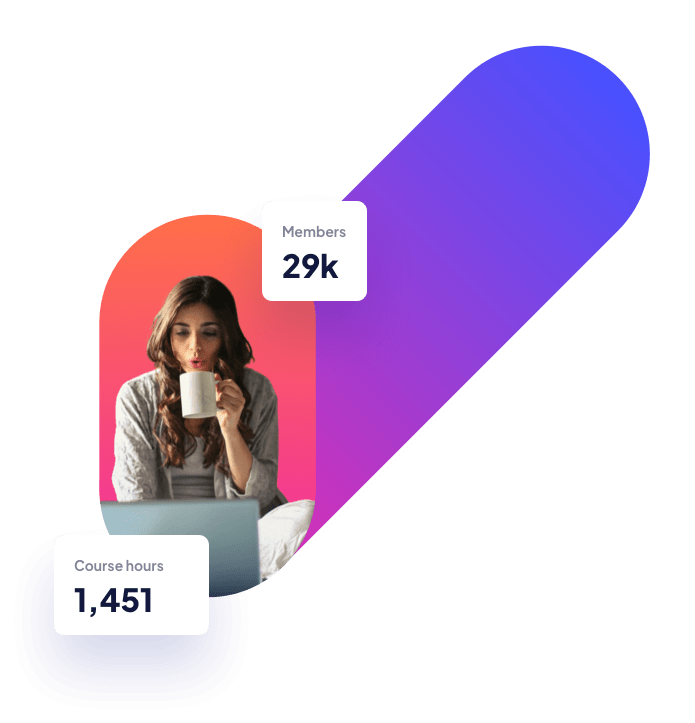
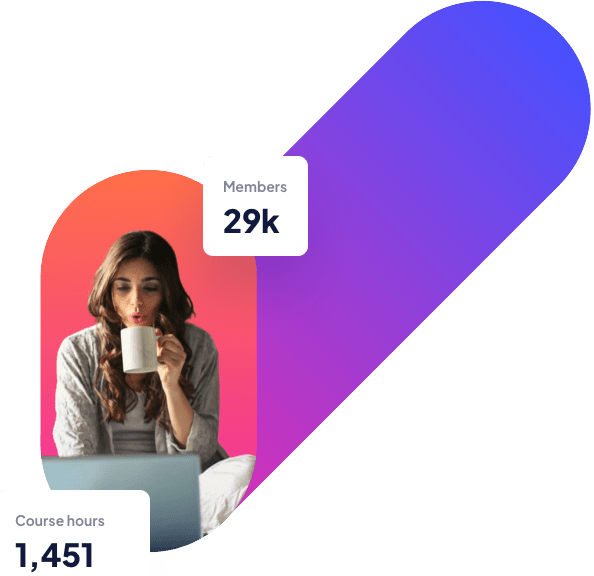
change img to picture tag

Changed region(s): [[0.0303, 0.0, 1.0, 1.0]]

diff --git a/index.html b/index.html
@@ -15,18 +15,25 @@
 </head>
 
 <body>
-  <header class="flex">
+  <header class="flex-column">
     <nav class="flex center-align">
       <img src="starter-code/assets/logo-dark.svg" alt="logo">
       <a href="" class="btn-started">Get Started</a>
     </nav>
     <section class="flex">
-      <h1>Maximize skill, minimize budget</h1>
-      <p> Our modern courses across a range of in-demand skills will give you the
-        knowledge you need to live the life you want.</p>
-      <a href="" class="btn-started btn-pink">Get Started</a>
+      <article class="flex">
+        <h1>Maximize skill, minimize budget</h1>
+        <p> Our modern courses across a range of in-demand skills will give you the
+          knowledge you need to live the life you want.</p>
+        <a href="" class="btn-started btn-pink">Get Started</a>
+      </article>
+      <picture>
+        <source media="(min-width: 1440px)" srcset="starter-code/assets/image-hero-desktop.png">
+        <source media="(min-width: 768px)" srcset="starter-code/assets/image-hero-tablet.png">
+        <img src="starter-code/assets/image-hero-mobile@2x.png" alt="Responsive Image">
+      </picture>
     </section>
-    <img src="starter-code/assets/image-hero-mobile@2x.png" alt="" class="header-hero">
+
   </header>
   <main>
     <section class="grid">

diff --git a/style.css b/style.css
@@ -132,11 +132,19 @@ header nav {
 
 }
 
-header nav img {
+picture {
+    margin-top: 6rem;
+}
+
+header nav picture {
     width: 8.9rem;
 }
 
 header section {
+    flex-direction: column;
+}
+
+header section article {
     gap: 2.6rem;
     flex-direction: column;
 }
@@ -232,5 +240,22 @@ footer a {
 @media (min-width: 48rem) {
     header {
         flex-direction: row;
+        gap: 9.9rem;
+    }
+
+    header section {
+        flex-direction: row;
+        position: relative;
+    }
+
+    header article {
+        width: 39.8rem;
+    }
+
+    header picture {
+        min-width: 64rem;
+        position: absolute;
+        right: -30rem;
+        top: -23rem;
     }
 }
